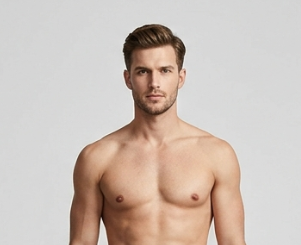
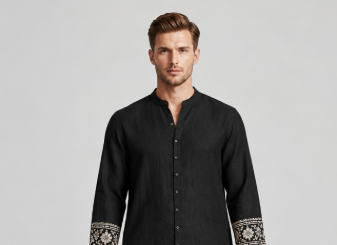
profile photos added

diff --git a/frontend/src/app/tabs/closet.tsx b/frontend/src/app/tabs/closet.tsx
@@ -53,7 +53,6 @@ const categories = [
   "Bottoms",
   "Dresses",
   "Outerwear",
-  "Shoes",
 ];
 
 export default function ClosetScreen() {
@@ -739,16 +738,6 @@ export default function ClosetScreen() {
               );
             break;
 
-          case "Shoes":
-            categoryMatches =
-              normalizedCategory.includes(
-                "shoe"
-              ) ||
-              normalizedCategory.includes(
-                "footwear"
-              );
-            break;
-
           default:
             categoryMatches = true;
         }
@@ -928,16 +917,16 @@ export default function ClosetScreen() {
                   style={[
                     styles.modeCard,
                     uploadMode ===
-                      "single" &&
-                      styles.modeCardSelected,
+                    "single" &&
+                    styles.modeCardSelected,
                   ]}
                 >
                   <View
                     style={[
                       styles.modeIcon,
                       uploadMode ===
-                        "single" &&
-                        styles.modeIconSelected,
+                      "single" &&
+                      styles.modeIconSelected,
                     ]}
                   >
                     <SymbolView
@@ -945,7 +934,7 @@ export default function ClosetScreen() {
                       size={24}
                       tintColor={
                         uploadMode ===
-                        "single"
+                          "single"
                           ? "#ffffff"
                           : "#745a38"
                       }
@@ -956,8 +945,8 @@ export default function ClosetScreen() {
                     style={[
                       styles.modeTitle,
                       uploadMode ===
-                        "single" &&
-                        styles.modeTitleSelected,
+                      "single" &&
+                      styles.modeTitleSelected,
                     ]}
                   >
                     Single Item
@@ -967,8 +956,8 @@ export default function ClosetScreen() {
                     style={[
                       styles.modeDescription,
                       uploadMode ===
-                        "single" &&
-                        styles.modeDescriptionSelected,
+                      "single" &&
+                      styles.modeDescriptionSelected,
                     ]}
                   >
                     One clothing or accessory
@@ -986,16 +975,16 @@ export default function ClosetScreen() {
                   style={[
                     styles.modeCard,
                     uploadMode ===
-                      "outfit" &&
-                      styles.modeCardSelected,
+                    "outfit" &&
+                    styles.modeCardSelected,
                   ]}
                 >
                   <View
                     style={[
                       styles.modeIcon,
                       uploadMode ===
-                        "outfit" &&
-                        styles.modeIconSelected,
+                      "outfit" &&
+                      styles.modeIconSelected,
                     ]}
                   >
                     <SymbolView
@@ -1003,7 +992,7 @@ export default function ClosetScreen() {
                       size={24}
                       tintColor={
                         uploadMode ===
-                        "outfit"
+                          "outfit"
                           ? "#ffffff"
                           : "#745a38"
                       }
@@ -1014,8 +1003,8 @@ export default function ClosetScreen() {
                     style={[
                       styles.modeTitle,
                       uploadMode ===
-                        "outfit" &&
-                        styles.modeTitleSelected,
+                      "outfit" &&
+                      styles.modeTitleSelected,
                     ]}
                   >
                     Whole Outfit
@@ -1025,8 +1014,8 @@ export default function ClosetScreen() {
                     style={[
                       styles.modeDescription,
                       uploadMode ===
-                        "outfit" &&
-                        styles.modeDescriptionSelected,
+                      "outfit" &&
+                      styles.modeDescriptionSelected,
                     ]}
                   >
                     Your complete look
@@ -1048,7 +1037,7 @@ export default function ClosetScreen() {
                 style={styles.infoText}
               >
                 {uploadMode ===
-                "single"
+                  "single"
                   ? "Upload a clear photo of one clothing item or accessory."
                   : "Upload a photo of yourself wearing your complete outfit. AI can later identify each item separately."}
               </Text>
@@ -1157,7 +1146,7 @@ export default function ClosetScreen() {
                   <SymbolView
                     name={
                       uploadMode ===
-                      "single"
+                        "single"
                         ? "tshirt"
                         : "person.crop.rectangle"
                     }
@@ -1171,7 +1160,7 @@ export default function ClosetScreen() {
                     }
                   >
                     {uploadMode ===
-                    "single"
+                      "single"
                       ? "Your item preview will appear here"
                       : "Your outfit preview will appear here"}
                   </Text>
@@ -1320,7 +1309,7 @@ export default function ClosetScreen() {
                     }
                   >
                     {uploadMode ===
-                    "single"
+                      "single"
                       ? "For a single item"
                       : "For a whole outfit"}
                   </Text>
@@ -1331,7 +1320,7 @@ export default function ClosetScreen() {
                     }
                   >
                     {uploadMode ===
-                    "single"
+                      "single"
                       ? "Place the item clearly in the frame and use good lighting. Avoid heavily cluttered backgrounds."
                       : "Take a clear full-body photo where your outfit is visible. Good lighting makes item detection easier."}
                   </Text>
@@ -1360,7 +1349,7 @@ export default function ClosetScreen() {
                     style={styles.metric}
                   >
                     {uploadMode ===
-                    "single"
+                      "single"
                       ? "SINGLE ITEM"
                       : "WHOLE OUTFIT"}
                   </Text>
@@ -1380,7 +1369,7 @@ export default function ClosetScreen() {
                   }
                 >
                   {uploadMode ===
-                  "single"
+                    "single"
                   }
                 </Text>
               </View>
@@ -1584,14 +1573,14 @@ export default function ClosetScreen() {
               style={[
                 styles.segment,
                 !showOutfits &&
-                  styles.segmentSelected,
+                styles.segmentSelected,
               ]}
             >
               <Text
                 style={[
                   styles.segmentText,
                   !showOutfits &&
-                    styles.segmentTextSelected,
+                  styles.segmentTextSelected,
                 ]}
               >
                 Clothes
@@ -1617,14 +1606,14 @@ export default function ClosetScreen() {
               style={[
                 styles.segment,
                 showOutfits &&
-                  styles.segmentSelected,
+                styles.segmentSelected,
               ]}
             >
               <Text
                 style={[
                   styles.segmentText,
                   showOutfits &&
-                    styles.segmentTextSelected,
+                  styles.segmentTextSelected,
                 ]}
               >
                 Outfits
@@ -1663,16 +1652,16 @@ export default function ClosetScreen() {
                     style={[
                       styles.chip,
                       selectedCategory ===
-                        category &&
-                        styles.chipSelected,
+                      category &&
+                      styles.chipSelected,
                     ]}
                   >
                     <Text
                       style={[
                         styles.chipText,
                         selectedCategory ===
-                          category &&
-                          styles.chipTextSelected,
+                        category &&
+                        styles.chipTextSelected,
                       ]}
                     >
                       {category}
@@ -2052,9 +2041,9 @@ const styles = StyleSheet.create({
   addItemContent: {
     flexGrow: 1,
     paddingHorizontal: Spacing.three,
-    paddingTop:Spacing.three,
-    paddingBottom:BottomTabInset + 100,
-      gap:Spacing.two,
+    paddingTop: Spacing.three,
+    paddingBottom: BottomTabInset + 100,
+    gap: Spacing.two,
   },
 
   header: {
@@ -2119,12 +2108,12 @@ const styles = StyleSheet.create({
   },
 
   backText: {
-    fontFamily:Fonts.serif,
-    lineHeight:40,
+    fontFamily: Fonts.serif,
+    lineHeight: 40,
     fontSize: 32,
     fontWeight: "500",
     color: "#1b1c1a",
-    marginTop:4,
+    marginTop: 4,
   },
 
   uploadSection: {

diff --git a/frontend/src/app/tabs/stylist.tsx b/frontend/src/app/tabs/stylist.tsx
@@ -151,7 +151,7 @@ const maleStyleBuyLinks: Record<string, string> = {
   oldmoney: 'https://www.myntra.com/men-blazers',
   streetstyle: 'https://www.myntra.com/men-streetwear',
   elevated_utility: 'https://www.myntra.com/men-jackets',
-  parisian_scandi: 'https://www.myntra.com/men-shirts',
+  parisian_scandi: 'https://linktr.ee/mandlikgauri738',
   minimalist_scandi: 'https://www.myntra.com/men-tshirts',
   casual: 'https://www.myntra.com/men-casual-wear',
 };

diff --git a/frontend/src/app/saved.tsx b/frontend/src/app/saved.tsx
@@ -267,7 +267,7 @@ export default function SavedScreen() {
             </Pressable>
             <View style={styles.headerText}>
               <Text style={styles.kicker}>CLOSET AI</Text>
-              <Text style={styles.title}>Saved Outfits</Text>
+              <Text style={styles.title}>Saved Items</Text>
               <Text style={styles.subtitle}>
                 Your favorite looks, ready when you are.
               </Text>

diff --git a/frontend/src/app/tabs/index.tsx b/frontend/src/app/tabs/index.tsx
@@ -1519,7 +1519,7 @@ export default function StylistScreen() {
               </View>
 
               <View style={styles.quickText}>
-                <Text style={styles.quickTitle}>Saved Outfits</Text>
+                <Text style={styles.quickTitle}>Saved Items</Text>
                 <Text style={styles.quickDescription}>
                   See your saved recommendations
                 </Text>

diff --git a/frontend/src/app/tabs/profile.tsx b/frontend/src/app/tabs/profile.tsx
@@ -495,7 +495,7 @@ export default function ProfileScreen() {
             <ThemedText
               style={styles.profileDetail}
             >
-              Member since Oct 2023
+              Member since Oct 2026
             </ThemedText>
 
           </View>

diff --git a/fashion-ai-backend/services/deafult_recom.py b/fashion-ai-backend/services/deafult_recom.py
@@ -167,7 +167,7 @@ def create_default_intent(
         return Intent(
             occasion="weekend",
             style="casual",
-            formality=2,
+            formality=1,
             mood="relaxed",
             weather_sensitive=True
         )
